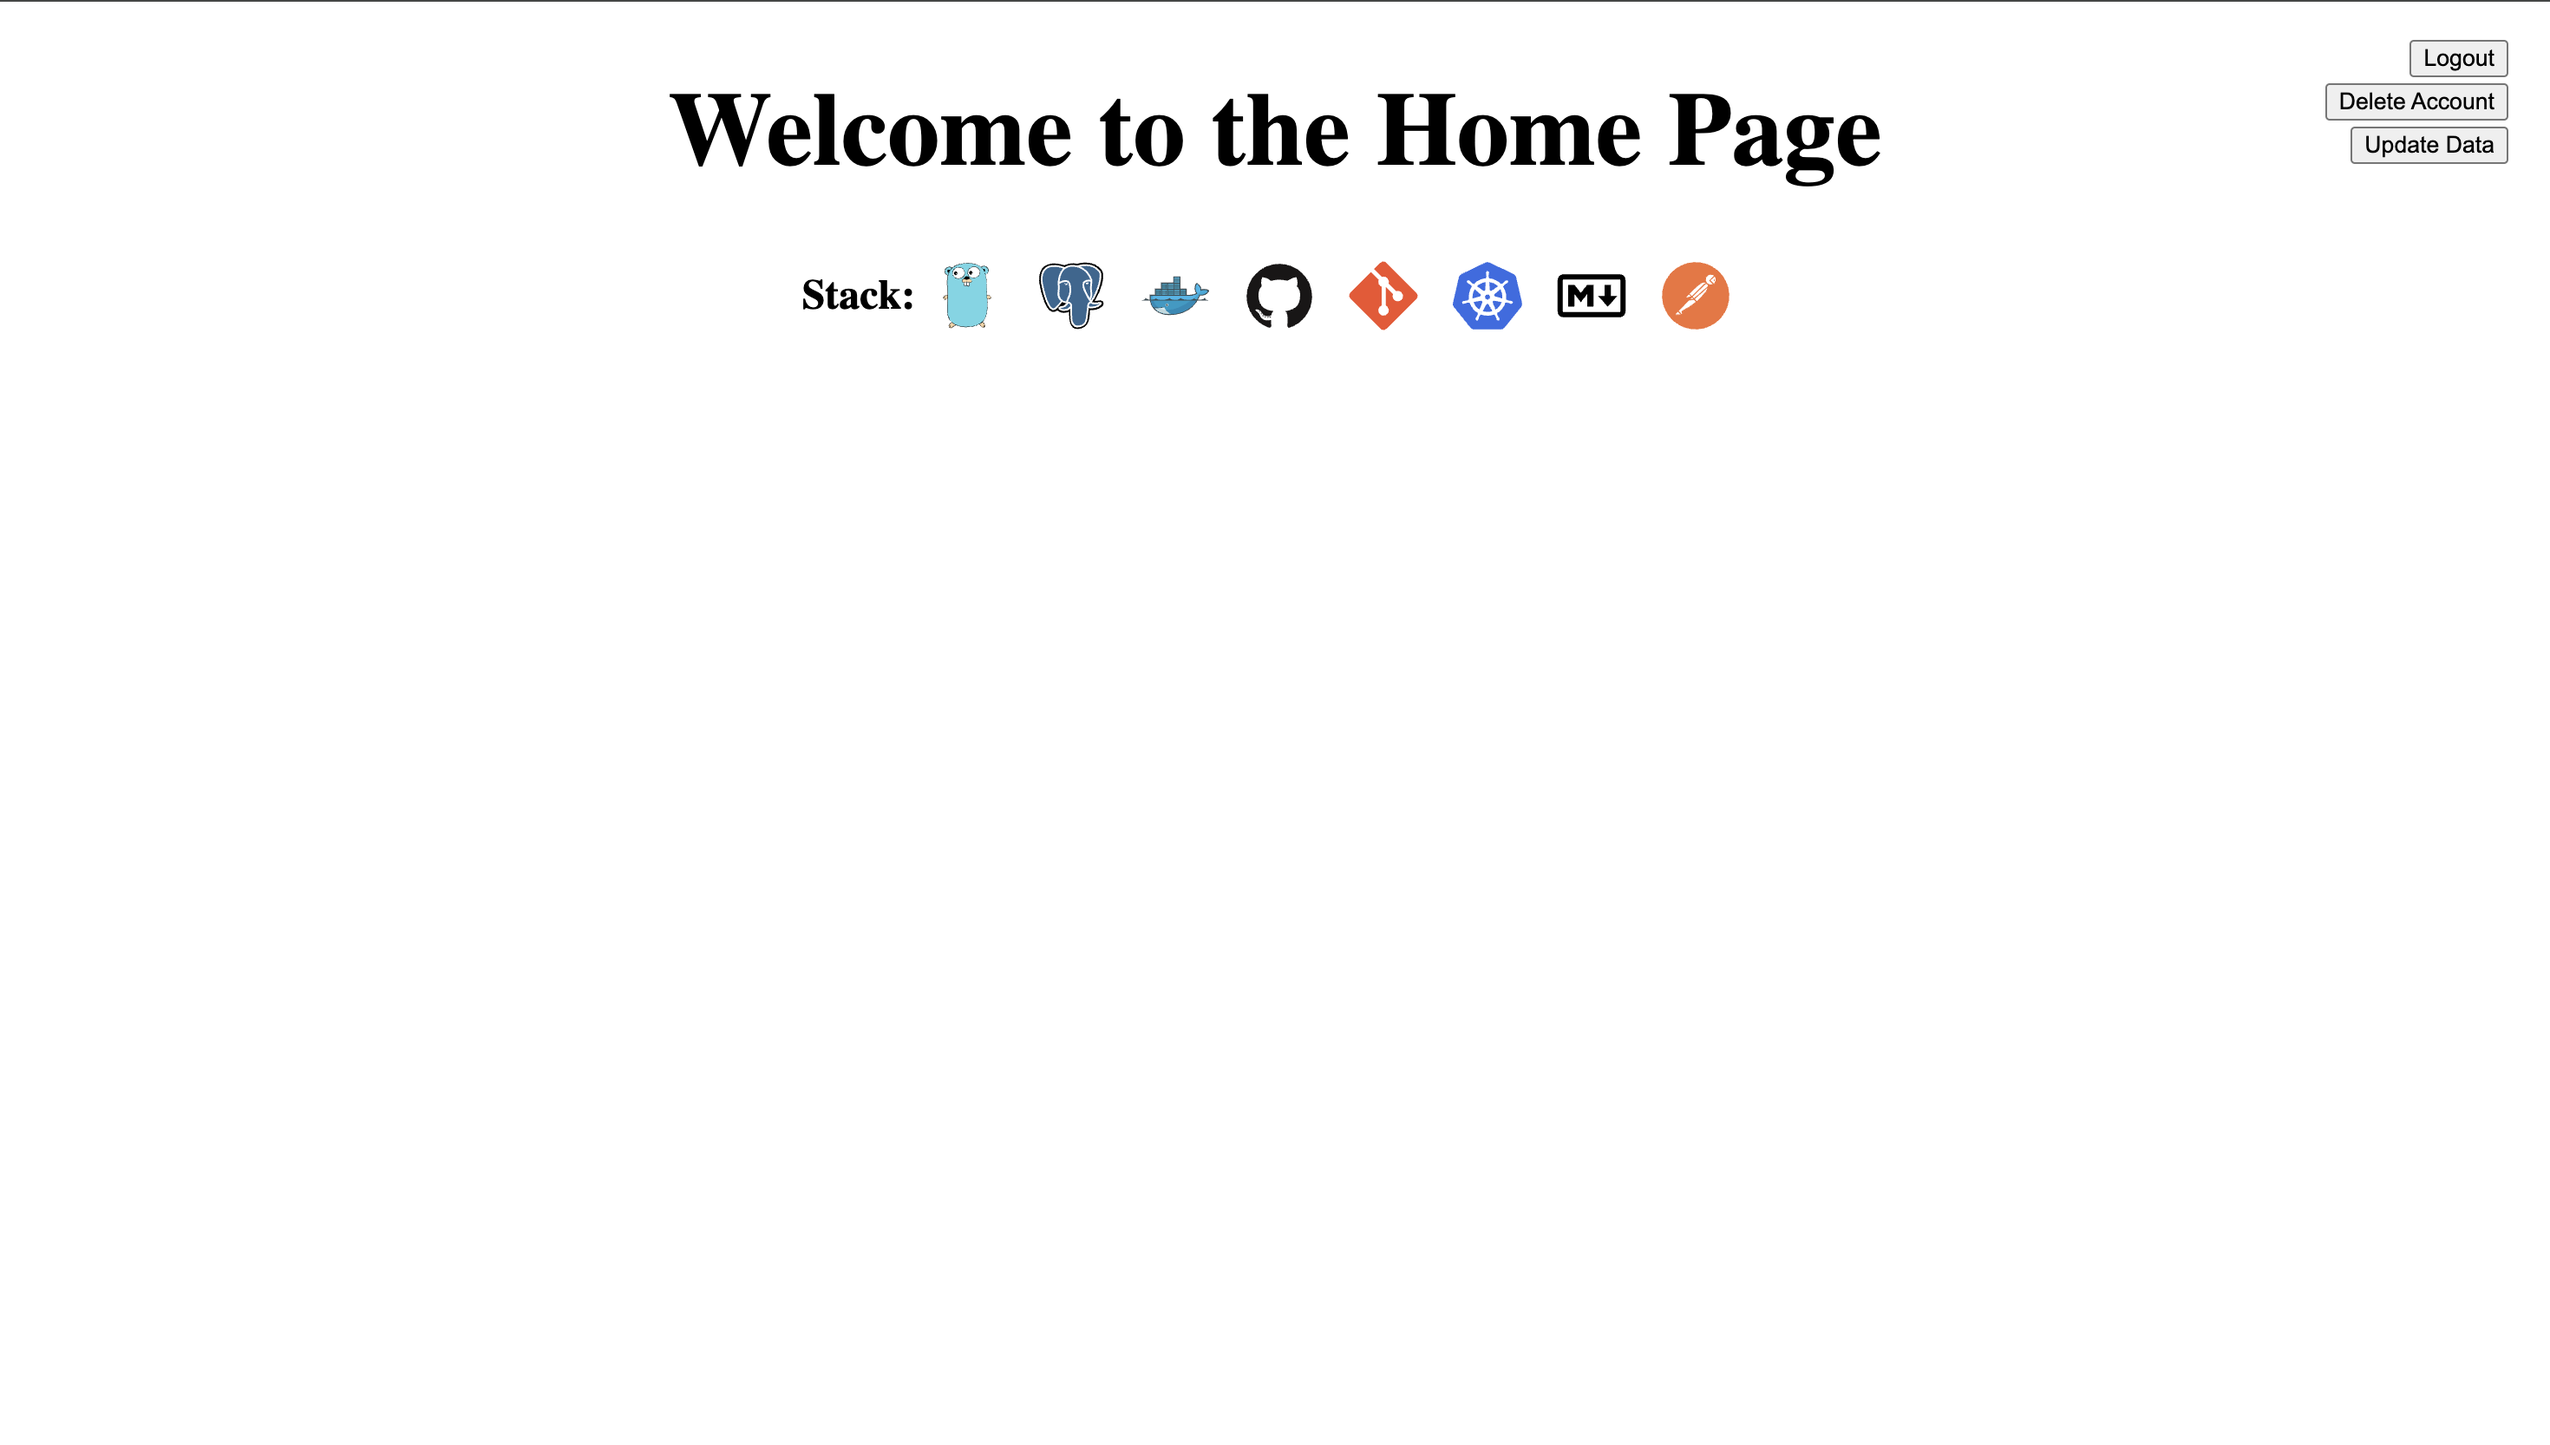
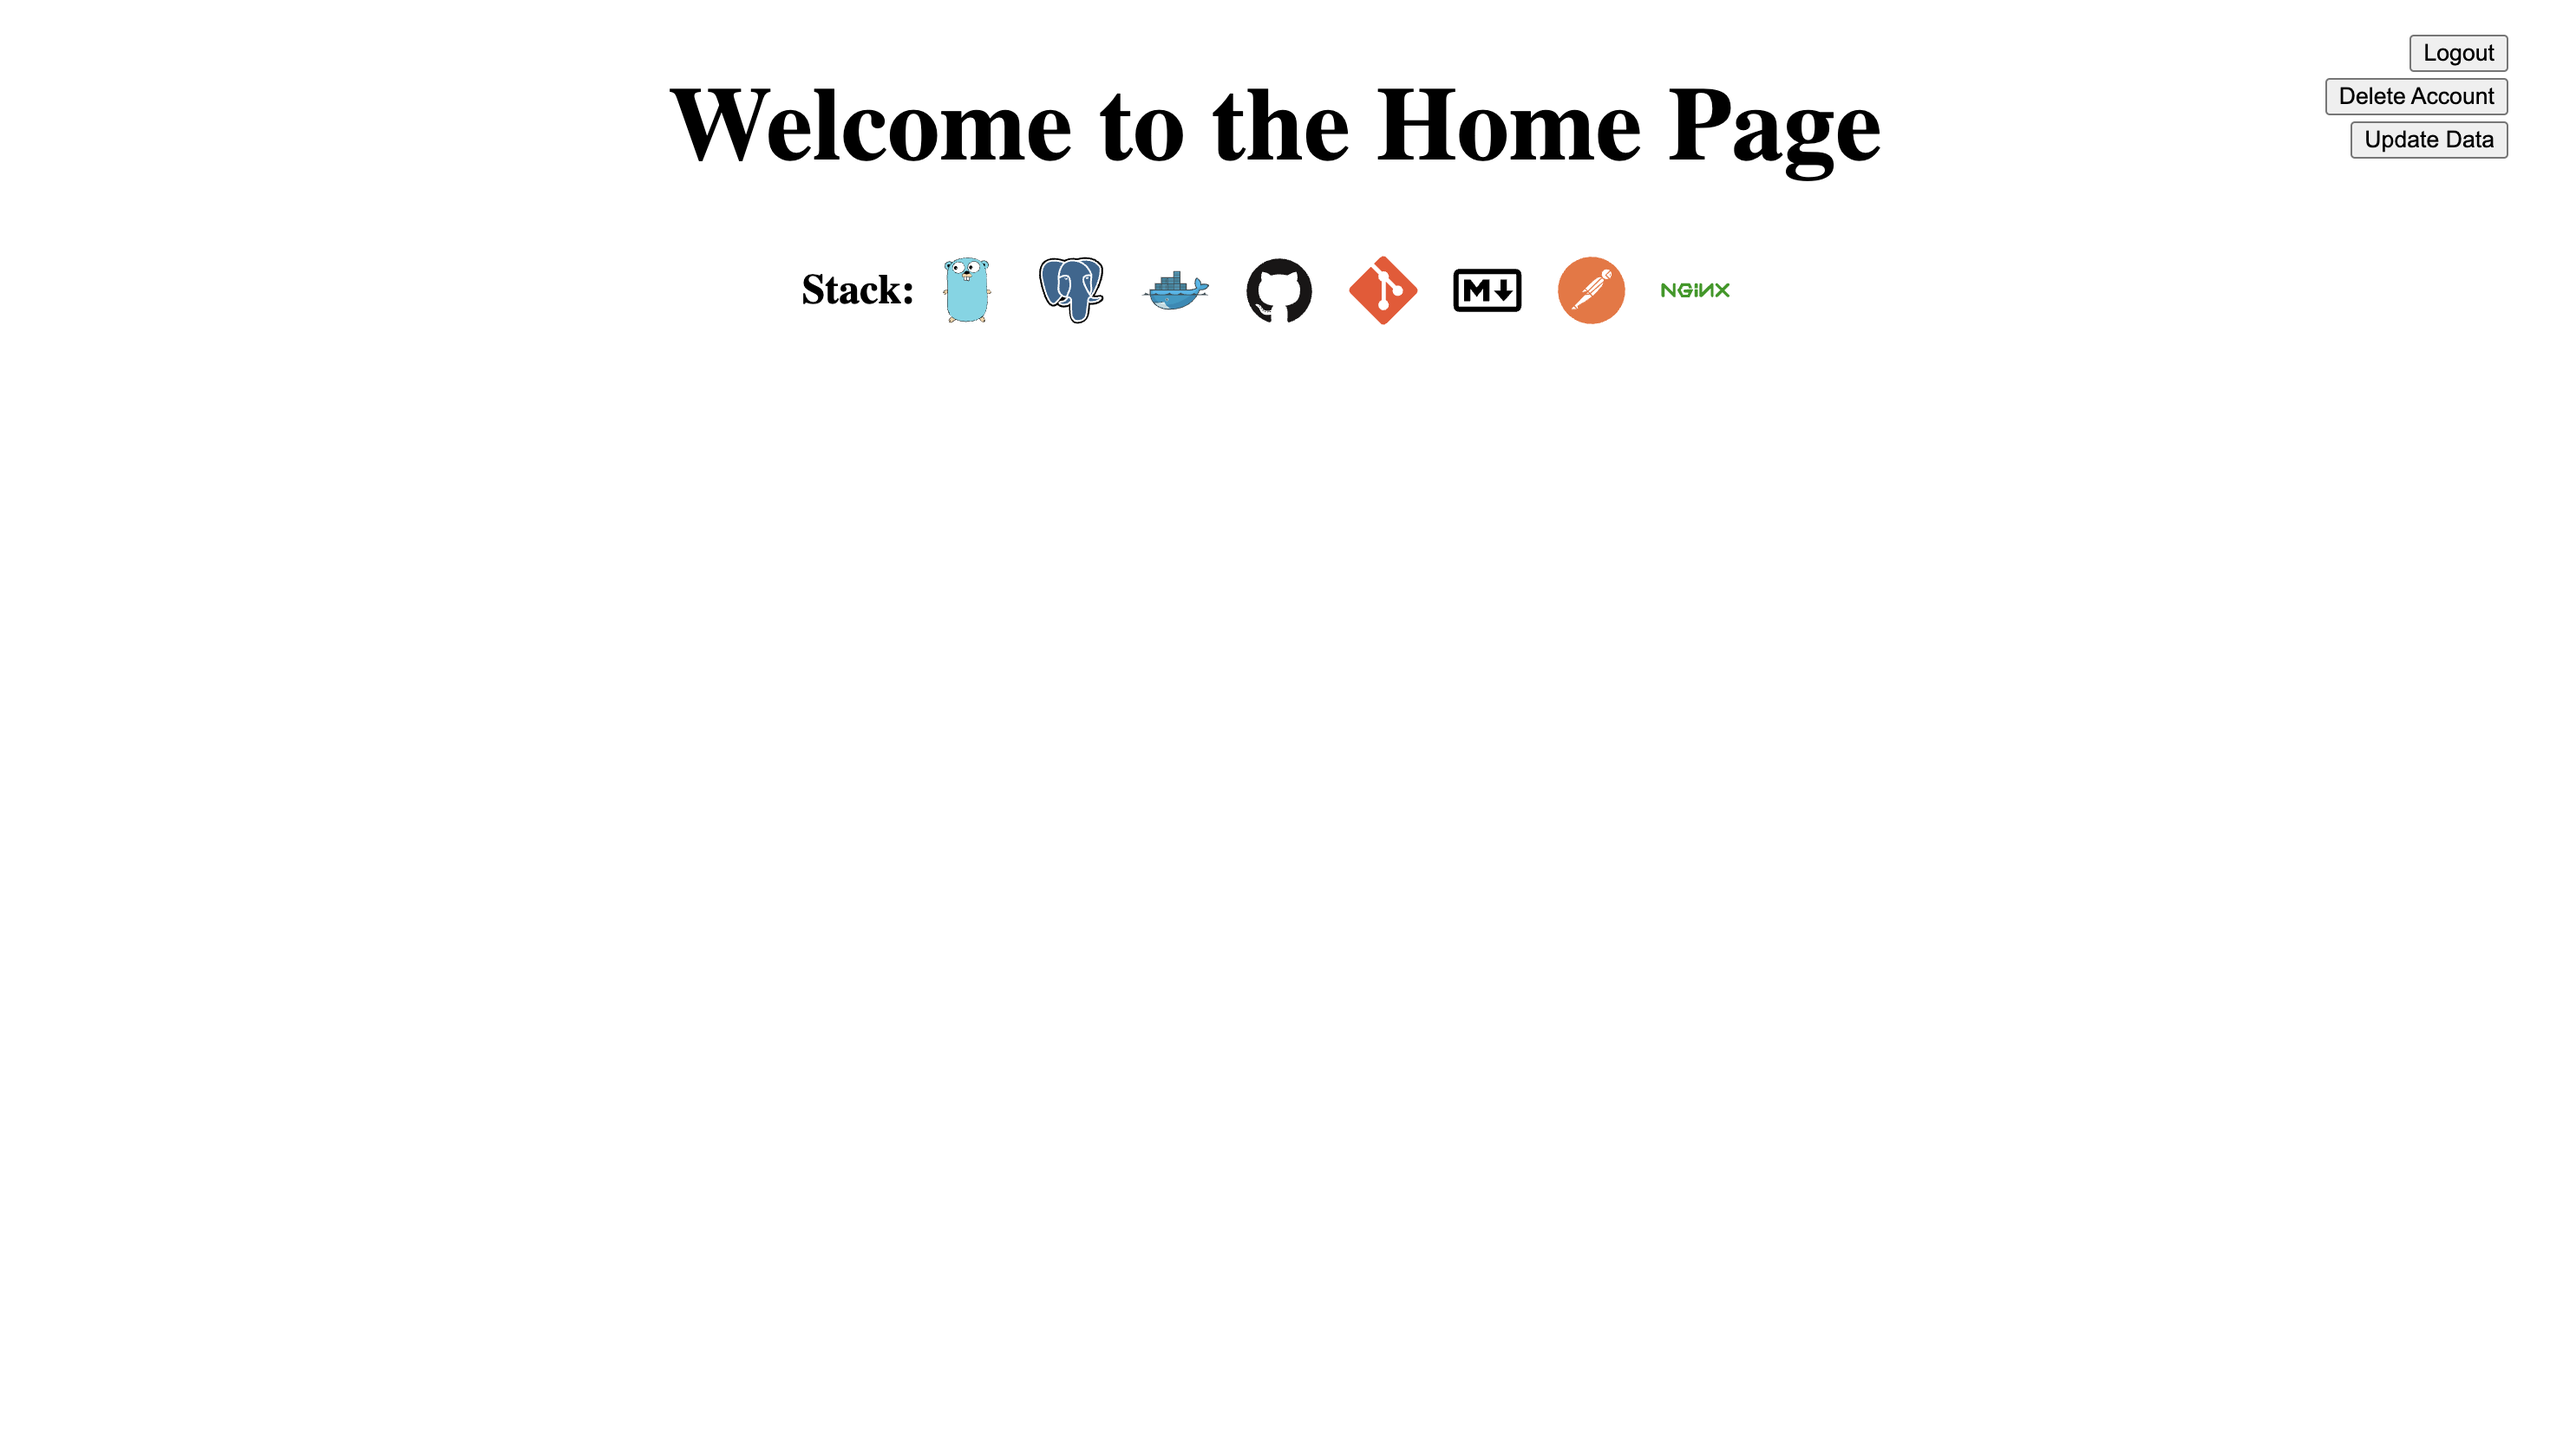
changed image

Changed region(s): [[0.2476, 0.0614, 0.7429, 0.1229], [0.3095, 0.1843, 0.681, 0.2458], [0.8976, 0.0, 0.9905, 0.1229]]

diff --git a/public/html/main.html b/public/html/main.html
@@ -47,9 +47,9 @@
             <img src="https://cdn.jsdelivr.net/gh/devicons/devicon@latest/icons/docker/docker-original.svg" />
             <img src="https://cdn.jsdelivr.net/gh/devicons/devicon@latest/icons/github/github-original.svg" />
             <img src="https://cdn.jsdelivr.net/gh/devicons/devicon@latest/icons/git/git-original.svg" />
-            <img src="https://cdn.jsdelivr.net/gh/devicons/devicon@latest/icons/kubernetes/kubernetes-original.svg" />
             <img src="https://cdn.jsdelivr.net/gh/devicons/devicon@latest/icons/markdown/markdown-original.svg" />
             <img src="https://cdn.jsdelivr.net/gh/devicons/devicon@latest/icons/postman/postman-original.svg" />
+            <img src="https://cdn.jsdelivr.net/gh/devicons/devicon@latest/icons/nginx/nginx-original.svg" />
         </h2>
     </div>
     <div class="logout-container">
